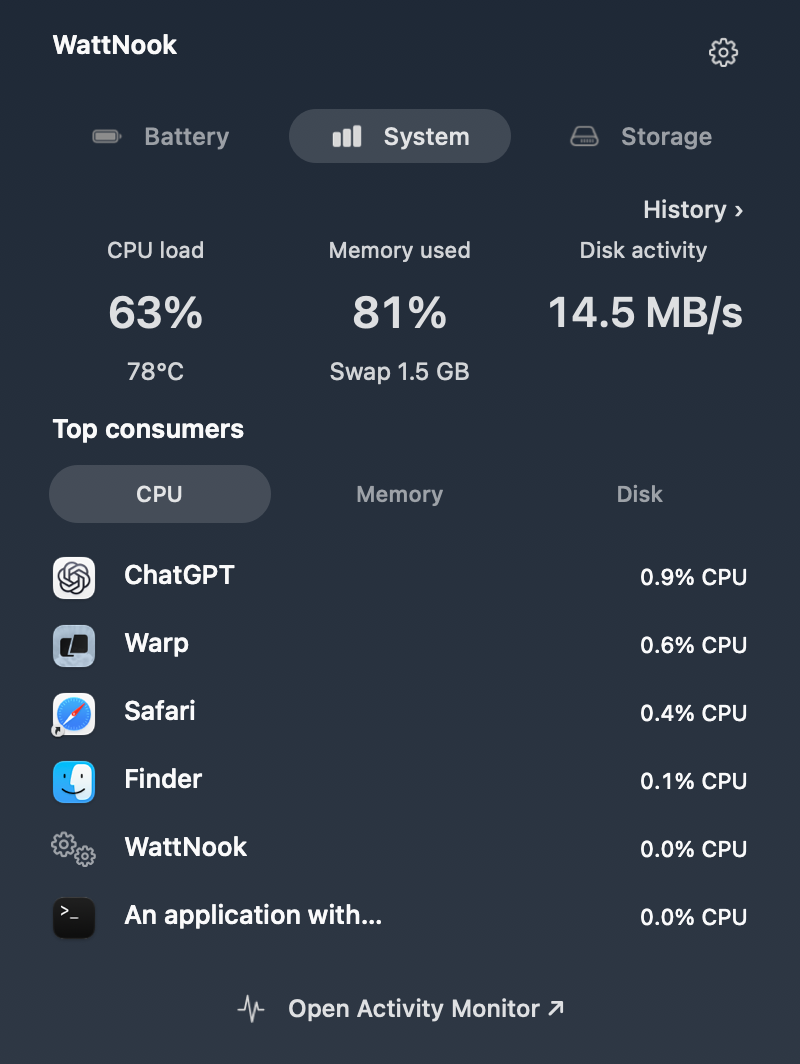
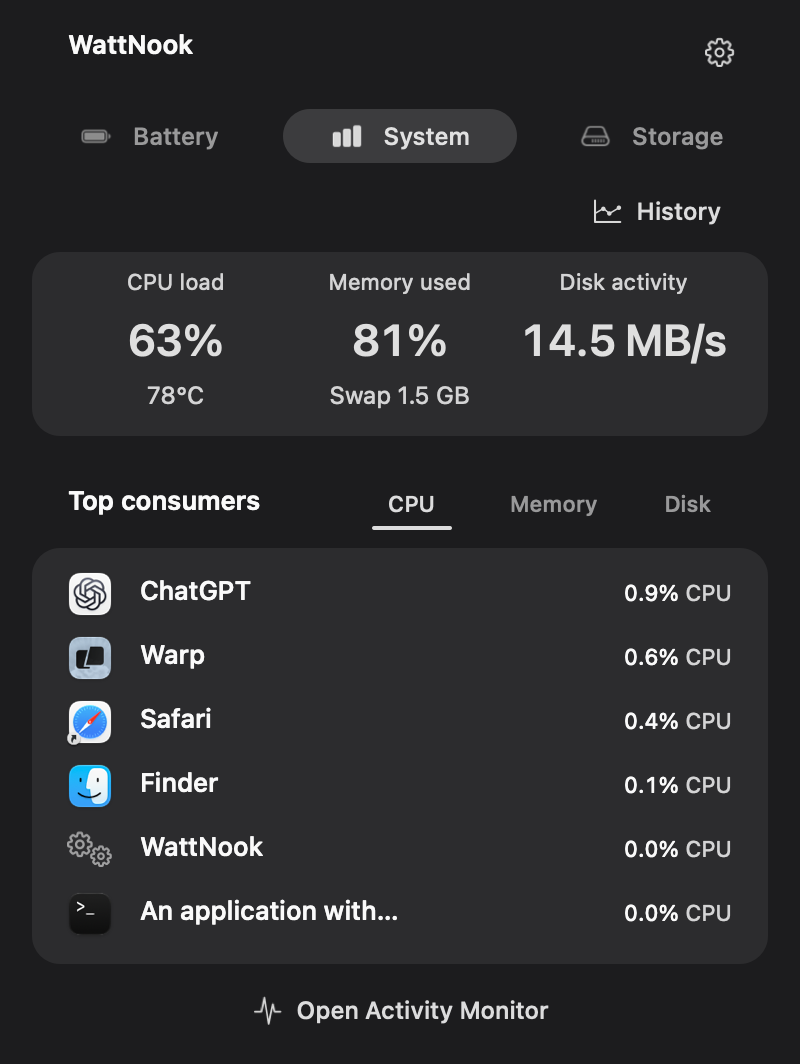
Storage scans survive closing the popover; release 0.5.0
Closing the popover or switching tabs no longer cancels a Storage scan or
drops its results; only Cancel or quitting stops it, and results arrive
while the page is hidden. Before results, one tile owns the page: what
Storage does, the live file count with a progress bar, and Scan (filled)
or Cancel (quiet). The helper-update action no longer appears when menu
items are missing.

Checks: go test ./..., race tests for cleanup, gui and daemon, the native
dashboard, Storage and Keep Awake harnesses, and an end-to-end Move to
Trash of a throwaway bundle. README screenshots are regenerated from the
current UI (illustrative values) and the idle memory claim is corrected to
the measured ~50 MB.

Claude-Session: https://claude.ai/code/session_01SfCCbsdgpp9Q11P9qDhCKj

diff --git a/pkg/gui/native_cleanup_view.m b/pkg/gui/native_cleanup_view.m
@@ -36,11 +36,13 @@ static NSView *StorageTile(NSView *parent,NSRect frame) {
  uint64_t _generation;
  BOOL _running,_active,_confirming;
 }
-@property(nonatomic,retain) NSView *listView,*detailView,*componentsView;
-@property(nonatomic,retain) NSButton *scanButton,*trashButton;
+@property(nonatomic,retain) NSView *listView,*detailView,*componentsView,*stateView;
+@property(nonatomic,retain) NSButton *scanButton,*trashButton,*stateButton;
 @property(nonatomic,retain) NSSearchField *searchField;
 @property(nonatomic,retain) NSTableView *table;
-@property(nonatomic,retain) NSProgressIndicator *spinner;
+@property(nonatomic,retain) NSProgressIndicator *progressBar;
+@property(nonatomic,retain) NSImageView *stateIcon;
+@property(nonatomic,retain) NSTextField *stateTitle,*stateText;
 @property(nonatomic,retain) NSTextField *totalLabel,*statusLabel,*emptyLabel,*pathLabel,*detailTitle,*detailSize,*detailReason;
 @property(nonatomic,retain) NSImageView *detailIcon;
 @property(nonatomic,copy) NSArray *applications,*rows,*components;
@@ -48,6 +50,7 @@ static NSView *StorageTile(NSView *parent,NSRect frame) {
 @property(nonatomic,copy) NSDictionary *selectedItem;
 - (instancetype)initWithOwner:(BattMenuController *)owner;
 - (void)setActive:(BOOL)active;
+- (void)shutdown;
 - (void)update:(NSDictionary *)snapshot;
 @end
 
@@ -77,11 +80,23 @@ static NSView *StorageTile(NSView *parent,NSRect frame) {
  _table.columnAutoresizingStyle=NSTableViewLastColumnOnlyAutoresizingStyle;
  _table.target=self;_table.action=@selector(review:);_table.selectionHighlightStyle=NSTableViewSelectionHighlightStyleNone;
  scroll.documentView=_table;[_listView addSubview:scroll];
- self.spinner=[[[NSProgressIndicator alloc]initWithFrame:NSMakeRect(192,236,16,16)]autorelease];
- _spinner.style=NSProgressIndicatorStyleSpinning;_spinner.controlSize=NSControlSizeSmall;_spinner.displayedWhenStopped=NO;
- [_listView addSubview:_spinner];
- self.emptyLabel=StorageLabel(_listView,NSMakeRect(48,170,304,58),@"Each app with its caches, settings and other leftovers.\nChoose Scan to start.",13,NO);
- _emptyLabel.alignment=NSTextAlignmentCenter;_emptyLabel.maximumNumberOfLines=3;
+ self.emptyLabel=StorageLabel(_listView,NSMakeRect(48,170,304,40),@"No matching applications.\nTry another name.",13,NO);
+ _emptyLabel.alignment=NSTextAlignmentCenter;_emptyLabel.maximumNumberOfLines=2;_emptyLabel.hidden=YES;
+
+ // Before the first result (and while a scan runs) one tile owns the page:
+ // what Storage does, the live count, and the one action.
+ self.stateView=StorageTile(self,NSMakeRect(16,8,368,432));
+ self.stateIcon=[[[NSImageView alloc]initWithFrame:NSMakeRect(152,262,64,56)]autorelease];
+ _stateIcon.symbolConfiguration=[NSImageSymbolConfiguration configurationWithPointSize:44 weight:NSFontWeightLight];
+ _stateIcon.contentTintColor=NSColor.secondaryLabelColor;[_stateView addSubview:_stateIcon];
+ self.stateTitle=StorageLabel(_stateView,NSMakeRect(24,222,320,24),@"",17,YES);
+ _stateTitle.alignment=NSTextAlignmentCenter;_stateTitle.maximumNumberOfLines=1;
+ self.stateText=StorageLabel(_stateView,NSMakeRect(40,170,288,44),@"",13,NO);
+ _stateText.alignment=NSTextAlignmentCenter;_stateText.maximumNumberOfLines=3;
+ self.progressBar=[[[NSProgressIndicator alloc]initWithFrame:NSMakeRect(84,148,200,8)]autorelease];
+ _progressBar.style=NSProgressIndicatorStyleBar;_progressBar.indeterminate=YES;_progressBar.displayedWhenStopped=NO;
+ [_stateView addSubview:_progressBar];
+ self.stateButton=StorageButton(_stateView,NSMakeRect(114,96,140,32),@"Scan",self,@selector(scan:));
 
  self.detailView=[[[NSView alloc]initWithFrame:self.bounds]autorelease];_detailView.hidden=YES;[self addSubview:_detailView];
  NSButton *back=WattActionButton(_detailView,NSMakeRect(12,412,84,28),@"Back",@"chevron.left",self,@selector(back:));
@@ -102,32 +117,49 @@ static NSView *StorageTile(NSView *parent,NSRect frame) {
  _detailReason.lineBreakMode=NSLineBreakByTruncatingTail;
  WattActionButton(_detailView,NSMakeRect(16,10,176,30),@"Show in Finder",@"folder",self,@selector(reveal:));
  self.trashButton=WattActionButton(_detailView,NSMakeRect(200,10,184,30),@"Move to Trash",@"trash",self,@selector(trash:));
+ [self reset];
  return self;
 }
 - (void)dealloc {
  [_listView release];[_detailView release];[_componentsView release];[_scanButton release];[_trashButton release];
- [_searchField release];[_table release];[_spinner release];[_totalLabel release];[_statusLabel release];[_emptyLabel release];
+ [_stateView release];[_stateButton release];[_progressBar release];[_stateIcon release];[_stateTitle release];[_stateText release];
+ [_searchField release];[_table release];[_totalLabel release];[_statusLabel release];[_emptyLabel release];
  [_pathLabel release];[_detailTitle release];[_detailSize release];[_detailReason release];[_detailIcon release];
  [_applications release];[_rows release];[_components release];[_checks release];[_selectedItem release];[super dealloc];
 }
+- (void)showState:(NSString *)symbol title:(NSString *)title text:(NSString *)text action:(NSString *)action busy:(BOOL)busy {
+ _stateIcon.image=[NSImage imageWithSystemSymbolName:symbol accessibilityDescription:nil];
+ _stateTitle.stringValue=title;_stateText.stringValue=text;_stateButton.title=action;_stateButton.enabled=YES;
+ // Scan is the one filled action on the page; Cancel stays a quiet text button.
+ WattSetButtonPlain(_stateButton,busy);WattSetButtonSelected(_stateButton,!busy);
+ if(busy)[_progressBar startAnimation:nil];else [_progressBar stopAnimation:nil];
+ _stateView.hidden=NO;_listView.hidden=YES;_detailView.hidden=YES;
+}
+- (void)showList {[_progressBar stopAnimation:nil];_stateView.hidden=YES;_listView.hidden=NO;}
 - (void)reset {
- _running=NO;_scanButton.enabled=YES;_scanButton.title=@"Scan";_searchField.enabled=YES;[_spinner stopAnimation:nil];
+ _running=NO;_scanButton.enabled=YES;_scanButton.title=@"Scan";_searchField.enabled=YES;
  _searchField.stringValue=@"";self.applications=@[];self.rows=@[];
  [_table deselectAll:nil];[_table reloadData];[self back:nil];
- _totalLabel.stringValue=@"";
- _statusLabel.stringValue=@"Scan to see what each app takes, leftovers included.";_statusLabel.toolTip=nil;
- _emptyLabel.stringValue=@"Each app with its caches, settings and other leftovers.\nChoose Scan to start.";_emptyLabel.hidden=NO;
+ _totalLabel.stringValue=@"";_statusLabel.stringValue=@"";_statusLabel.toolTip=nil;
+ [self showState:@"internaldrive" title:@"See what your apps take up"
+  text:@"Each app with its caches, settings and other leftovers, ready to move to the Trash." action:@"Scan" busy:NO];
 }
+// Visibility no longer drives the scan: closing the popover or switching tabs
+// keeps it running and keeps the results. Only Cancel or quitting stops it.
 - (void)setActive:(BOOL)active {
- if (_active==active)return;_active=active;
- if(active)_generation=++_owner.storageGeneration;else battStorageAction(_owner.handle,_generation,3);
- [self reset];
+ _active=active;
+ if(active && !_generation)_generation=++_owner.storageGeneration;
 }
+- (void)shutdown {if(_generation)battStorageAction(_owner.handle,_generation,3);}
 - (void)scan:(id)sender {
- if(!_active)return;
- if(_running){_scanButton.enabled=NO;_scanButton.title=@"Canceling…";battStorageAction(_owner.handle,_generation,2);return;}
- [self reset];_running=YES;_scanButton.title=@"Cancel";_statusLabel.stringValue=@"Measuring applications…";
- _emptyLabel.hidden=YES;[_spinner startAnimation:nil];
+ if(!_generation)_generation=++_owner.storageGeneration;
+ if(_running){
+  _scanButton.enabled=_stateButton.enabled=NO;_scanButton.title=_stateButton.title=@"Canceling…";
+  battStorageAction(_owner.handle,_generation,2);return;
+ }
+ [self reset];_running=YES;_scanButton.title=@"Cancel";
+ [self showState:@"internaldrive" title:@"Scanning applications"
+  text:@"Measuring each app and its leftovers. You can close WattNook; the scan keeps going." action:@"Cancel" busy:YES];
  battStorageAction(_owner.handle,_generation,1);
 }
 - (void)filter {
@@ -138,8 +170,7 @@ static NSView *StorageTile(NSView *parent,NSRect frame) {
   NSString *name=item[@"app"][@"name"] ?: @"";
   if(!query.length || [name rangeOfString:query options:NSCaseInsensitiveSearch|NSDiacriticInsensitiveSearch].location!=NSNotFound)[filtered addObject:item];
  }
- self.rows=filtered;[_table deselectAll:nil];[_table reloadData];_emptyLabel.hidden=_rows.count!=0||_running;
- if(query.length)_emptyLabel.stringValue=@"No matching applications.\nTry another name.";
+ self.rows=filtered;[_table deselectAll:nil];[_table reloadData];_emptyLabel.hidden=_rows.count!=0||!query.length;
 }
 - (void)controlTextDidChange:(NSNotification *)notification {[self filter];}
 - (void)showTotals {
@@ -151,14 +182,13 @@ static NSView *StorageTile(NSView *parent,NSRect frame) {
  _totalLabel.attributedStringValue=_applications.count?line:[[[NSAttributedString alloc]initWithString:@""]autorelease];
 }
 - (void)update:(NSDictionary *)snapshot {
- if(!_active)return;
  NSString *state=snapshot[@"state"];
  if([state isEqual:@"running"]){
-  _statusLabel.stringValue=[NSString stringWithFormat:@"Scanning, %@ files",
+  _stateText.stringValue=[NSString stringWithFormat:@"%@ files checked. You can close WattNook; the scan keeps going.",
    [NSNumberFormatter localizedStringFromNumber:snapshot[@"visited"] ?: @0 numberStyle:NSNumberFormatterDecimalStyle]];
   return;
  }
- [self back:nil];_running=NO;_scanButton.enabled=YES;_scanButton.title=@"Rescan";[_spinner stopAnimation:nil];
+ [self back:nil];_running=NO;_scanButton.enabled=YES;_scanButton.title=@"Rescan";
  NSMutableArray *apps=[NSMutableArray array];
  NSDictionary *inventory=[snapshot[@"applications"] isKindOfClass:NSDictionary.class]?snapshot[@"applications"]:@{};
  NSArray *entries=[inventory[@"entries"] isKindOfClass:NSArray.class]?inventory[@"entries"]:@[];
@@ -177,13 +207,16 @@ static NSView *StorageTile(NSView *parent,NSRect frame) {
   return [a[@"app"][@"name"] localizedCaseInsensitiveCompare:b[@"app"][@"name"]];
  }];
  NSString *reason=[snapshot[@"reason"] isKindOfClass:NSString.class]?snapshot[@"reason"]:@"";
- _statusLabel.stringValue=[state isEqual:@"complete"]?@"Sizes include each app's caches, settings and other leftovers.":
+ _statusLabel.stringValue=[state isEqual:@"complete"]?@"Includes caches, settings and other leftovers.":
   [state isEqual:@"canceled"]?@"Scan canceled; the list may be incomplete.":
   [state isEqual:@"error"]?[NSString stringWithFormat:@"Scan unavailable: %@",reason]:
   [NSString stringWithFormat:@"Some items could not be measured: %@",reason];
  _statusLabel.toolTip=_statusLabel.stringValue;
  [self showTotals];[self filter];
- if(!apps.count){_emptyLabel.hidden=NO;_emptyLabel.stringValue=[state isEqual:@"error"]?@"Scan unavailable.\nCheck the message above, then try Rescan.":@"No applications were measured.\nTry Rescan.";}
+ if(apps.count)[self showList];
+ else if([state isEqual:@"error"])[self showState:@"exclamationmark.triangle" title:@"Scan unavailable" text:reason action:@"Try Again" busy:NO];
+ else [self showState:@"internaldrive" title:[state isEqual:@"canceled"]?@"Scan canceled":@"No applications found"
+  text:@"Nothing was measured this time." action:@"Scan" busy:NO];
 }
 - (NSInteger)numberOfRowsInTableView:(NSTableView *)table{return _rows.count;}
 - (NSView *)tableView:(NSTableView *)table viewForTableColumn:(NSTableColumn *)column row:(NSInteger)index {
@@ -263,7 +296,7 @@ static NSView *StorageTile(NSView *parent,NSRect frame) {
  [_table deselectAll:nil];
 }
 - (void)reveal:(id)sender {
- if(!_active || !_selectedItem)return;
+ if(!_selectedItem)return;
  NSString *path=_selectedItem[@"path"];
  if([path isKindOfClass:NSString.class] && path.isAbsolutePath)
   [NSWorkspace.sharedWorkspace activateFileViewerSelectingURLs:@[[NSURL fileURLWithPath:path]]];
@@ -295,7 +328,7 @@ static NSView *StorageTile(NSView *parent,NSRect frame) {
  return nil;
 }
 - (void)trash:(id)sender {
- if(!_active || !_selectedItem)return;
+ if(!_selectedItem)return;
  NSArray *parts=[self selectedParts];if(!parts.count)return;
  if(!_confirming){
   // A second click confirms; the button says exactly what it will do.
@@ -316,7 +349,6 @@ static NSView *StorageTile(NSView *parent,NSRect frame) {
  // app was installed by another user; everything stays recoverable.
  [NSWorkspace.sharedWorkspace recycleURLs:urls completionHandler:^(NSDictionary *moved,NSError *error){
   dispatch_async(dispatch_get_main_queue(),^{
-   if(!self->_active)return;
    if(error && moved.count<urls.count){
     self.detailReason.stringValue=[NSString stringWithFormat:@"Not moved: %@",error.localizedDescription];
     self.trashButton.enabled=YES;return;
@@ -335,6 +367,7 @@ NSView *WattCreateStorageReview(BattMenuController *controller){
  controller.storageView=[[[WattStorageView alloc]initWithOwner:controller]autorelease];return controller.storageView;
 }
 void WattSetStorageReviewActive(BattMenuController *controller,BOOL active){[(WattStorageView *)controller.storageView setActive:active];}
+void WattCloseStorageReview(BattMenuController *controller){[(WattStorageView *)controller.storageView shutdown];}
 void WattShowStorageReview(BattMenuController *controller){BattShowStoragePage(controller);}
 void WattUpdateStorageReview(BattMenuController *controller,uint64_t generation,NSDictionary *snapshot){
  if(generation!=controller.storageGeneration)return;[(WattStorageView *)controller.storageView update:snapshot];

diff --git a/tools/cleanup/TabTests.m b/tools/cleanup/TabTests.m
@@ -1,5 +1,7 @@
 #import "../../pkg/gui/native_internal.h"
 #include <assert.h>
+#include <sys/stat.h>
+#include <unistd.h>
 void battMenuWillOpen(uintptr_t h) {}
 void battMenuTimerFired(uintptr_t h) {}
 void battMenuAction(uintptr_t h,int i,bool b) {}
@@ -35,7 +37,10 @@ int main(int argc,const char **argv){@autoreleasepool{
  NSString *directory=argc==2?[NSString stringWithUTF8String:argv[1]]:nil;
  NSWindow *host=[[[NSWindow alloc]initWithContentRect:dashboard.bounds styleMask:NSWindowStyleMaskBorderless backing:NSBackingStoreBuffered defer:NO]autorelease];
  host.contentView=dashboard;[host orderFront:nil];[dashboard displayIfNeeded];Capture(dashboard,directory,@"initial.png");
+ assert(![[v valueForKey:@"stateView"] isHidden]);
  [scan performClick:nil];assert(lastAction==1&&lastGeneration==c.storageGeneration);
+ [((NSTextField *)[v valueForKey:@"stateText"]) setStringValue:@"219,862 files checked. You can close WattNook; the scan keeps going."];
+ [dashboard displayIfNeeded];Capture(dashboard,directory,@"scanning.png");
  [scan performClick:nil];assert(lastAction==2&&!scan.enabled);
  NSDictionary *identity=@{@"name":@"An application with a deliberately long but real-looking name",@"bundleID":@"test.one",@"path":@"/synthetic/Applications/One.app",@"running":@YES};
  NSDictionary *snapshot=@{@"state":@"partial",@"reason":@"Some folders were inaccessible",@"applications":@{@"entries":@[
@@ -67,12 +72,55 @@ int main(int argc,const char **argv){@autoreleasepool{
  [FindButton(detail,@"Back") performClick:nil];assert(detail.hidden&&table.selectedRow==-1);
  WattUpdateStorageReview(c,c.storageGeneration,@{@"state":@"error",@"reason":@"Permission denied"});
  assert(detail.hidden&&table.numberOfRows==0);
- assert([((NSTextField *)[v valueForKey:@"statusLabel"]).stringValue containsString:@"Permission denied"]);
+ assert([((NSTextField *)[v valueForKey:@"stateText"]).stringValue containsString:@"Permission denied"]);
  [dashboard displayIfNeeded];Capture(dashboard,directory,@"error.png");
- uint64_t old=c.storageGeneration;[FindButton(dashboard,@"Battery") performClick:nil];assert(lastAction==3&&v.hidden);
- [FindButton(dashboard,@"Storage") performClick:nil];assert(c.storageGeneration!=old);
- WattUpdateStorageReview(c,old,snapshot);assert(table.numberOfRows==0);
- [scan performClick:nil];[c popoverDidClose:[NSNotification notificationWithName:NSPopoverDidCloseNotification object:c.popover]];
- assert(lastAction==3&&table.numberOfRows==0);
+ // Switching tabs or closing the popover neither cancels a scan nor drops results.
+ int before=actionCount;uint64_t generation=c.storageGeneration;
+ [FindButton(dashboard,@"Battery") performClick:nil];assert(actionCount==before&&v.hidden);
+ [FindButton(dashboard,@"Storage") performClick:nil];assert(c.storageGeneration==generation);
+ [scan performClick:nil];assert(lastAction==1);int started=actionCount;
+ [c popoverDidClose:[NSNotification notificationWithName:NSPopoverDidCloseNotification object:c.popover]];
+ assert(actionCount==started);
+ WattUpdateStorageReview(c,c.storageGeneration,snapshot);assert(table.numberOfRows==2);
+ // README capture: real app icons and names from this Mac, illustrative sizes.
+ if(directory){
+  NSArray *names=@[@"Cursor",@"Discord",@"Spotify",@"Telegram",@"Notion",@"Linear",@"Zed"];
+  NSArray *bytes=@[@1460000000,@820000000,@640000000,@510000000,@470000000,@380000000,@290000000];
+  NSMutableArray *entries=[NSMutableArray array];
+  for(NSUInteger i=0;i<names.count;i++){
+   NSString *id=[@"com.example." stringByAppendingString:[names[i] lowercaseString]];
+   NSString *lib=[NSHomeDirectory() stringByAppendingPathComponent:@"Library"];
+   [entries addObject:@{@"identity":@{@"name":names[i],@"bundleID":id,@"path":[NSString stringWithFormat:@"/Applications/%@.app",names[i]]},
+    @"size":@{@"bytes":bytes[i],@"complete":@YES},
+    @"leftovers":@[@{@"path":[lib stringByAppendingFormat:@"/Application Support/%@",names[i]],@"category":@"Application Support",@"bytes":@([bytes[i] doubleValue]*0.6),@"complete":@YES},
+                   @{@"path":[lib stringByAppendingFormat:@"/Caches/%@",id],@"category":@"Caches",@"bytes":@([bytes[i] doubleValue]*0.3),@"complete":@YES},
+                   @{@"path":[lib stringByAppendingFormat:@"/Preferences/%@.plist",id],@"category":@"Preferences",@"bytes":@12000,@"complete":@YES},
+                   @{@"path":[lib stringByAppendingFormat:@"/Saved Application State/%@.savedState",id],@"category":@"Saved state",@"bytes":@48000,@"complete":@YES}]}];
+  }
+  WattUpdateStorageReview(c,c.storageGeneration,@{@"state":@"complete",@"applications":@{@"entries":entries}});
+  [dashboard displayIfNeeded];Capture(dashboard,directory,@"readme-storage.png");
+  [table selectRowIndexes:[NSIndexSet indexSetWithIndex:1] byExtendingSelection:NO];[table sendAction:table.action to:table.target];
+  [dashboard displayIfNeeded];Capture(dashboard,directory,@"readme-uninstall.png");
+  [FindButton(detail,@"Back") performClick:nil];
+ }
+ // End to end: a throwaway bundle goes to the Trash through the real path
+ // (revalidation, then NSWorkspace recycle), and leaves the list.
+ NSString *tmp=[NSTemporaryDirectory() stringByAppendingPathComponent:[NSString stringWithFormat:@"wattnook-trash-%d",getpid()]];
+ NSString *bundle=[tmp stringByAppendingPathComponent:@"WattNook Trash Test.app"];
+ [NSFileManager.defaultManager createDirectoryAtPath:[bundle stringByAppendingPathComponent:@"Contents/MacOS"] withIntermediateDirectories:YES attributes:nil error:NULL];
+ struct stat st;assert(lstat(bundle.fileSystemRepresentation,&st)==0);
+ NSDictionary *dummy=@{@"name":@"WattNook Trash Test",@"bundleID":@"io.wattnook.trash-test",@"path":bundle,
+  @"device":@((uint64_t)st.st_dev),@"inode":@((uint64_t)st.st_ino)};
+ WattUpdateStorageReview(c,c.storageGeneration,@{@"state":@"complete",@"applications":@{@"entries":@[
+  @{@"identity":dummy,@"size":@{@"bytes":@4096,@"complete":@YES}}]}});
+ assert(table.numberOfRows==1);
+ [table selectRowIndexes:[NSIndexSet indexSetWithIndex:0] byExtendingSelection:NO];[table sendAction:table.action to:table.target];
+ NSButton *move=FindButton(detail,@"Move to Trash");assert(move.enabled);
+ [move performClick:nil];assert([move.title isEqual:@"Move 1 item"]);[move performClick:nil];
+ for(int i=0;i<100&&[NSFileManager.defaultManager fileExistsAtPath:bundle];i++)
+  [NSRunLoop.mainRunLoop runUntilDate:[NSDate dateWithTimeIntervalSinceNow:0.1]];
+ [NSRunLoop.mainRunLoop runUntilDate:[NSDate dateWithTimeIntervalSinceNow:0.3]];
+ assert(![NSFileManager.defaultManager fileExistsAtPath:bundle]&&table.numberOfRows==0);
+ [NSFileManager.defaultManager removeItemAtPath:tmp error:NULL];
  [host orderOut:nil];[c release];NSLog(@"Application-first Storage checks passed");
 }return 0;}

diff --git a/tools/power-flow-preview/dashboard.m b/tools/power-flow-preview/dashboard.m
@@ -366,6 +366,14 @@ int main(int argc, const char *argv[]) {
             c.powerFlowView.supportedLimits = @[@50,@55,@60,@65,@70,@75,@80,@85,@90,@95,@100];
             [c item:BattItemQuickLimits].hidden = NO; [c item:BattItemLimit80].enabled = YES;
             c.powerFlowView.limitEditable = YES;
+            [c item:BattItemInstall].hidden = YES; [c item:BattItemUpgrade].hidden = YES;
+            // Illustrative 15-minute strip: a working session with a charge, a heat
+            // pause and a quieter stretch (the throttle is reset per sample).
+            for (NSInteger i = 0; i < 90; i++) {
+                [c.powerFlowView setValue:@0 forKey:@"_lastSample"];
+                double watts = 9 + 7 * sin(i / 6.0) + (i % 7) * 0.8 + (i > 55 && i < 70 ? 9 : 0);
+                [c.powerFlowView recordMacWatts:watts charging:i < 30 heat:i >= 30 && i < 60 onBattery:NO];
+            }
             NSArray *readme = @[
                 @{@"name":@"readme-charging", @"charge":@62, @"plug":@YES, @"adapter":@38.4, @"battery":@19.6, @"system":@18.8, @"heat":@NO, @"cpu":@64, @"detail":@"On, pauses at 33 °C"},
                 @{@"name":@"readme-heat", @"charge":@64, @"plug":@YES, @"adapter":@21.3, @"battery":@0, @"system":@21.3, @"heat":@YES, @"cpu":@91, @"detail":@"Paused until 30 °C"},

diff --git a/pkg/gui/native_popover.m b/pkg/gui/native_popover.m
@@ -795,9 +795,10 @@ static void Redisplay(NSView *view) {
     }
     // A helper from another version hides the charging controls; say so in
     // place of the charge action instead of leaving them silently missing.
-    BOOL helperAction = ![c item:BattItemUpgrade].hidden || ![c item:BattItemInstall].hidden;
+    NSMenuItem *upgradeItem = [c item:BattItemUpgrade], *installItem = [c item:BattItemInstall];
+    BOOL helperAction = (upgradeItem && !upgradeItem.hidden) || (installItem && !installItem.hidden);
     if (helperAction) {
-        BOOL install = ![c item:BattItemInstall].hidden;
+        BOOL install = installItem && !installItem.hidden;
         _topUpButton.hidden = NO; _topUpButton.selected = NO;
         _topUpButton.tag = install ? BattItemInstall : BattItemUpgrade;
         _topUpButton.title = install ? @"Install Helper…" : @"Update Helper…";

diff --git a/pkg/gui/native_internal.h b/pkg/gui/native_internal.h
@@ -182,6 +182,7 @@ enum { WattHistoryCapacity = 90 };
 void WattShowStorageReview(BattMenuController *controller);
 NSView *WattCreateStorageReview(BattMenuController *controller);
 void WattSetStorageReviewActive(BattMenuController *controller, BOOL active);
+void WattCloseStorageReview(BattMenuController *controller);
 void BattShowStoragePage(BattMenuController *controller);
 void WattUpdateStorageReview(BattMenuController *controller, uint64_t generation, NSDictionary *snapshot);
 

diff --git a/pkg/gui/native_menu.m b/pkg/gui/native_menu.m
@@ -91,7 +91,7 @@ static NSMenu *AddSubmenu(BattMenuController *controller,
 - (void)showStorageReview:(id)sender { WattShowStorageReview(self); }
 
 - (void)dealloc {
-    WattSetStorageReviewActive(self,NO);
+    WattCloseStorageReview(self);
     [_storageView release];
     [_awakeDetailsWindow close];
     [_awakeDetailsWindow release];

diff --git a/README.md b/README.md
@@ -5,18 +5,18 @@
 <h1 align="center">WattNook</h1>
 
 <p align="center"><strong>Free battery care for Apple Silicon Macs — and it works on macOS 27.</strong><br>
-Heat Protection, charge limits from 50%, and a live view of where every watt goes.</p>
+Heat Protection, charge limits from 50%, a live view of where every watt goes, and an app uninstaller.</p>
 
 <p align="center">
   <a href="LICENSE"><img alt="GPL-2.0" src="https://img.shields.io/badge/license-GPL--2.0-526B80"></a>
   <img alt="macOS 15+ incl. 27" src="https://img.shields.io/badge/macOS-15%2B%20·%2027-526B80">
   <img alt="Apple Silicon" src="https://img.shields.io/badge/Apple%20Silicon-only-526B80">
   <img alt="Native AppKit" src="https://img.shields.io/badge/UI-native%20AppKit-526B80">
-  <img alt="~25 MB RAM" src="https://img.shields.io/badge/RAM-~25%20MB-526B80">
+  <img alt="~50 MB RAM" src="https://img.shields.io/badge/RAM-~50%20MB-526B80">
 </p>
 
 <p align="center">
-  <img src="docs/images/wattnook-states.gif" width="420" alt="WattNook switching between charging, heat-paused and adapter-plus-battery states">
+  <img src="docs/images/battery.png" width="400" alt="WattNook Battery view: charge, limit, power flow and the last 15 minutes of Mac power">
 </p>
 
 ## Why WattNook
@@ -26,17 +26,19 @@ macOS 27 removed the SMC keys that charge limiters relied on, so most of them qu
 - **Heat Protection that keeps you on AC.** When the battery gets hot, charging pauses at the current level while the adapter keeps powering the Mac. It resumes once the battery cools. A low battery whose adapter can't keep up is never left draining.
 - **Charge limits from 50% to 100%.** Apple's built-in setting stops at 80%. WattNook adds 50–75%, never discharges on the adapter to reach a lower limit, and keeps Apple's 80% underneath as a safety net.
 - **Sailing, Top Up and Discharge, free.** Sailing stops micro-charging: once the limit is reached the battery drifts 5–10% before charging again. Top Up charges to 100% once for a trip and restores your limit when you unplug. Discharge runs down to a lower limit while the charger stays plugged in.
-- **See where the power goes.** A live flow shows adapter, battery and Mac watts as they split and merge, plus battery *and* CPU temperature, so you know whether the battery or the processor is the hot part.
+- **See where the power goes.** A live power flow shows the adapter's watts splitting between the Mac and the battery (or the battery helping a weak charger), a 15-minute strip of Mac power, battery *and* CPU temperature, and battery health.
 - **Find what's heating your Mac.** Top apps by CPU, memory or disk, memory pressure, a 15-minute history, and a normal Quit one hover away.
+- **Uninstall apps with their leftovers.** Storage sizes every app together with its caches, settings, containers and other files in `~/Library`, and moves what you pick to the Trash. Exact matches are preselected, name-only matches are not, running apps are refused, and nothing is deleted permanently. The scan keeps running when you close the popover.
 - **Keep Awake with the lid closed.** Run long jobs or remote sessions without sleep; WattNook dims the panel when the lid closes.
-- **Light and native.** AppKit, no Electron, about 25 MB of memory when idle. Keyboard shortcuts ⌘1 / ⌘2 / ⌘3 and ⌘,.
+- **Light and native.** AppKit, no Electron, about 50 MB of memory when idle. Keyboard shortcuts ⌘1 / ⌘2 / ⌘3 and ⌘,.
 
 <table>
-  <tr><th>Heat Protection</th><th>System</th><th>Settings</th></tr>
+  <tr><th>Heat Protection</th><th>System</th><th>Storage</th><th>Uninstall</th></tr>
   <tr>
-    <td><img src="docs/images/battery-heat.png" width="260" alt="Battery view with charging paused for heat while the adapter powers the Mac"></td>
-    <td><img src="docs/images/system.png" width="260" alt="System view with CPU load, CPU temperature, memory, disk and top apps"></td>
-    <td><img src="docs/images/settings.png" width="260" alt="Settings with color palette, menu-bar items and monitoring options"></td>
+    <td><img src="docs/images/battery-heat.png" width="200" alt="Battery view with charging paused while the battery cools and the adapter powers the Mac"></td>
+    <td><img src="docs/images/system.png" width="200" alt="System view with CPU load, CPU temperature, memory, disk and top apps"></td>
+    <td><img src="docs/images/storage.png" width="200" alt="Storage view listing apps by size including their leftovers"></td>
+    <td><img src="docs/images/uninstall.png" width="200" alt="An app's uninstaller with its bundle and leftovers checked, ready to move to the Trash"></td>
   </tr>
 </table>
 
@@ -60,7 +62,7 @@ Requirements: Apple Silicon, macOS 15 or later, Go and the Xcode command-line to
 
 ```sh
 git clone https://github.com/itscloud0/wattnook.git && cd wattnook
-WATTNOOK_VERSION=0.4.1 tools/build-wattnook-app.sh /tmp/WattNook.app
+WATTNOOK_VERSION=0.5.0 tools/build-wattnook-app.sh /tmp/WattNook.app
 mv /tmp/WattNook.app ~/Applications/ && open ~/Applications/WattNook.app
 ```
 
